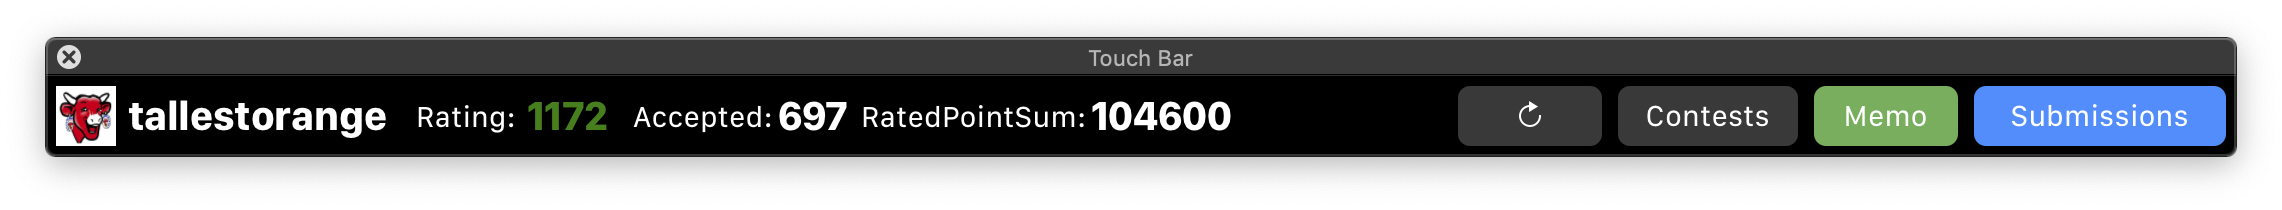
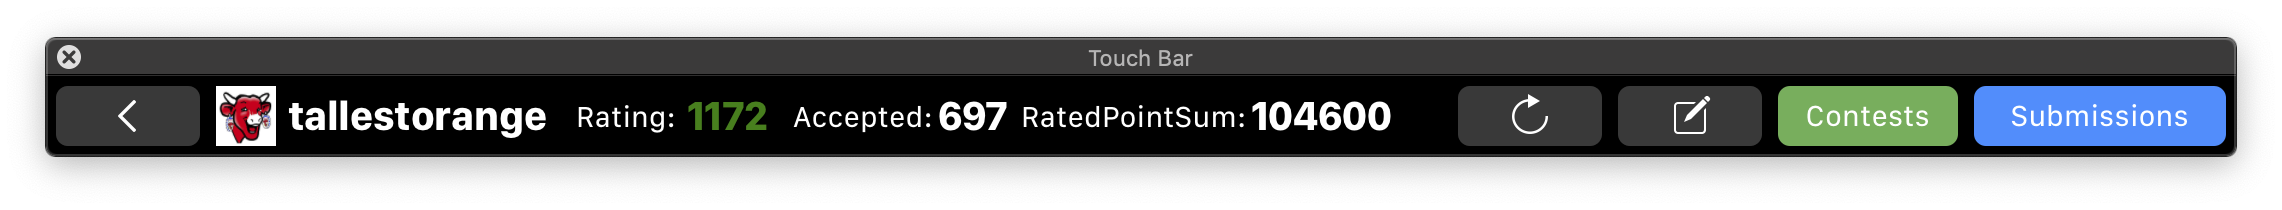
READMEに画像を追加

Changed region(s): [[0.0, 0.4, 0.6223, 0.7143], [0.7156, 0.4, 0.8712, 0.7143], [0.6534, 0.4571, 0.6845, 0.6286]]

diff --git a/README.md b/README.md
@@ -1,4 +1,6 @@
 # ACTouchBar
 
 ![screenshot](Screenshot.png)
+![screenshot_2](Screenshot_2.png)
+
 Custom TouchBar for AtCoder user
